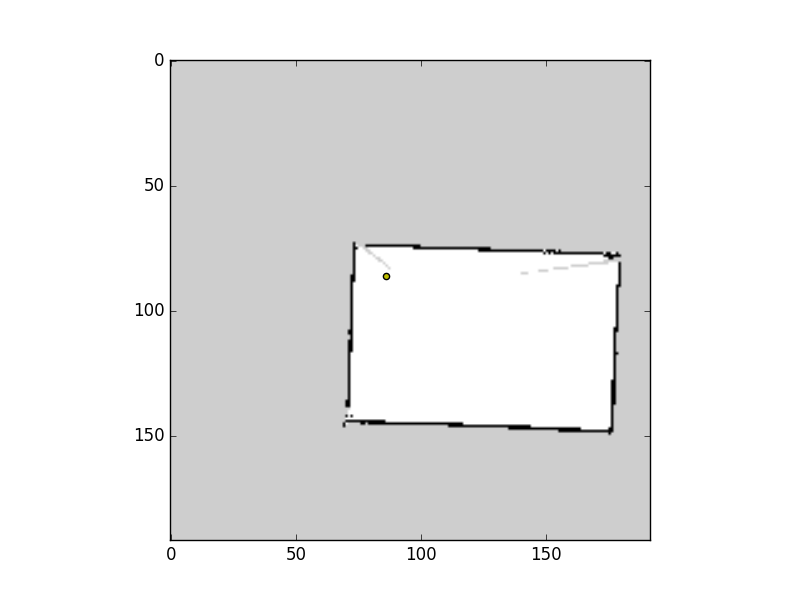
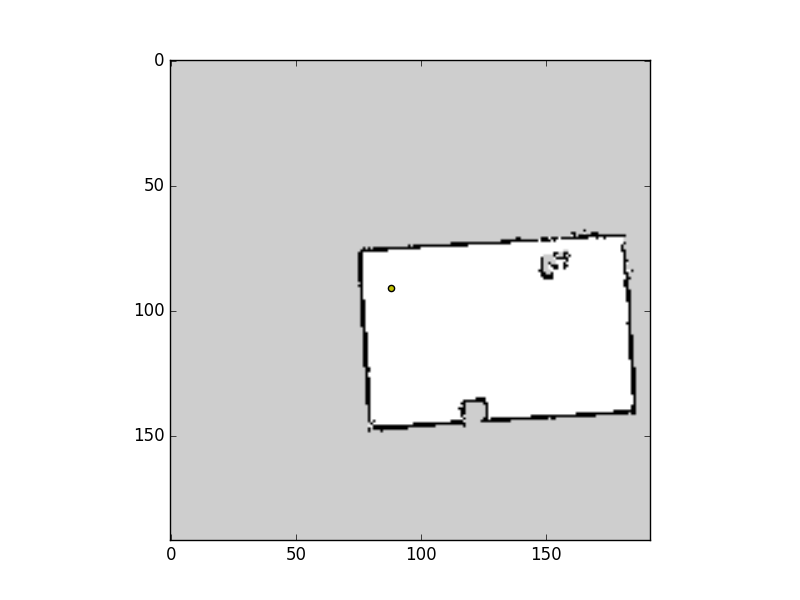
1121

Changed region(s): [[0.4062, 0.36, 0.8125, 0.72]]

diff --git a/home.html b/home.html
@@ -1,0 +1,90 @@
+<!DOCTYPE html>
+<html>
+<head> 
+<style type="text/css">
+#Header{
+    width:auto;
+    height:80px;
+    text-align:center;
+    line-height:80px;
+    font-size:15px;
+    color:#fffaf3;
+    font-weight:bold;
+    background-color:#f9c81e;
+}
+#Sidebar{
+    width:240px;
+    float:left;
+    height:auto;
+    text-align:center;
+    line-height:100px;
+    font-size:15px;
+    color:#ffffff;
+    font-weight:bold;
+    background-color:#cecece;
+}
+#body{
+    width:240px;
+    height:280px;
+    text-align:center;
+    line-height:280px;
+    font-size:15px;
+    color:#f9c81e;
+    font-weight:bold;
+    background-color:#fffaf3;
+    float:left;
+}
+#Footer{
+    width:auto;
+    height:80px;
+    text-align:center;
+    line-height:80px;
+    font-size:15px;
+    color:#fffaf3;
+    font-weight:bold;
+    background-color:#f9c81e;
+}
+</style>
+</head>
+
+<body >
+<div id="Header">Header 欄位</div>
+<div id="Sidebar">
+    <form method="get" action="start">
+    <button type="submit" style="background-color:#F8C471  ;width:60px;height:60px;font-size:20px;"  >啟動</button>
+    </form>
+    <form method="get" action="goalA_to">
+    <button type="submit" style="background-color:#ABEBC6;width:120px;height:60px;font-size:20px;">goalA_to</button>
+    </form>
+    <form method="get" action="goalA_leave">
+    <button type="submit" style="background-color:#ABEBC6;width:120px;height:60px;font-size:20px;">goalA_leave</button>
+    </form>
+    <form method="get" action="goalB_to">
+    <button type="submit" style="background-color:#AED6F1;width:120px;height:60px;font-size:20px;" >goalB_to</button>
+    </form>
+    <form method="get" action="goalB_leave">
+    <button type="submit" style="background-color:#AED6F1;width:120px;height:60px;font-size:20px;">goalB_leave</button>
+    </form>
+    <form method="get" action="goalC_to">
+    <button type="submit" style="background-color:#D2B4DE;width:120px;height:60px;font-size:20px;">goalC_to</button>
+    </form>
+    <form method="get" action="goalC_leave">
+    <button type="submit" style="background-color:#D2B4DE;width:120px;height:60px;font-size:20px;">goalC_leave</button>
+    </form>
+    <!-- <form method="get" action="kill">
+    <button type="submit" style="background-color:#F8C471  ;width:60px;height:60px;font-size:20px;">kill</button>
+    </form> -->
+</div>
+<div id="Body" >
+    <img src="http://192.168.4.10:8080/1.jpg" id="myImage" />
+    <script>
+    setInterval(function() {
+        var myImageElement = document.getElementById('myImage');
+        myImageElement.src = "http://192.168.4.10:8080/2.png"
+    }, 5000);
+    </script>
+</div>
+<div style='clear:both;'></div>
+<div id="Footer">Footer 欄位</div>
+</body>
+</html>

diff --git a/interactive.py b/interactive.py
@@ -15,6 +15,7 @@ class HelloWorld(object):
 
     def __init__(self):
         self.laucher = Launcher()
+        self.pub = rospy.Publisher('move_base_simple/goal', PoseStamped, queue_size=10) 
 
     @cherrypy.expose
     def index(self):
@@ -22,7 +23,7 @@ class HelloWorld(object):
         # <input type="button" value="goalA" onclick="location.href='192.168.3.3:8080/goalA_to'">
         # ERIC https://github.com/VirtuosoEric/robot_web_service/blob/pn60/home.html
         
-        f = open("t.html", "r")
+        f = open("home.html", "r")
         return f
 
     @cherrypy.expose
@@ -42,19 +43,18 @@ class HelloWorld(object):
 
     @cherrypy.expose
     def goalA_to(self):
-        pub = rospy.Publisher('move_base_simple/goal', PoseStamped, queue_size=10)          
         goal = PoseStamped()
         goal.header.frame_id = "map"
         goal.header.stamp = rospy.Time.now()
-        goal.pose.position.x = 3
-        goal.pose.position.y = 0
+        goal.pose.position.x = 0.240
+        goal.pose.position.y = -0.344
         goal.pose.position.z = 0
         goal.pose.orientation.w = 1.0
-        pub.publish(goal)
+        self.pub.publish(goal)
         return 'goal to!'
     @cherrypy.expose
     def goalA_leave(self):
-        pub = rospy.Publisher('move_base_simple/goal', PoseStamped, queue_size=10)          
+        # pub = rospy.Publisher('move_base_simple/goal', PoseStamped, queue_size=10)          
         goal = PoseStamped()
         goal.header.frame_id = "map"
         goal.header.stamp = rospy.Time.now()
@@ -62,15 +62,32 @@ class HelloWorld(object):
         goal.pose.position.y = 0
         goal.pose.position.z = 0
         goal.pose.orientation.w = 1.0
-        pub.publish(goal)
+        self.pub.publish(goal)
         return 'goal leave!'
     @cherrypy.expose
     def goalB_to(self):
-        # f = open("latop.html", "r")
-        return 'Hello!'
+        # pub = rospy.Publisher('move_base_simple/goal', PoseStamped, queue_size=10)          
+        goal = PoseStamped()
+        goal.header.frame_id = "map"
+        goal.header.stamp = rospy.Time.now()
+        goal.pose.position.x = 0.601
+        goal.pose.position.y = -0.138
+        goal.pose.position.z = 0
+        goal.pose.orientation.w = 1.0
+        self.pub.publish(goal)
+        return 'goal to!'
+        # return 'Hello!'
     @cherrypy.expose
     def goalB_leave(self):
-        # f = open("latop.html", "r")
+        # pub = rospy.Publisher('move_base_simple/goal', PoseStamped, queue_size=10)          
+        goal = PoseStamped()
+        goal.header.frame_id = "map"
+        goal.header.stamp = rospy.Time.now()
+        goal.pose.position.x = 0
+        goal.pose.position.y = 0
+        goal.pose.position.z = 0
+        goal.pose.orientation.w = 1.0
+        self.pub.publish(goal)
         return 'Hello!'
     @cherrypy.expose
     def goalC_to(self):

diff --git a/map.py b/map.py
@@ -13,13 +13,13 @@ class mapdrawing:
         self.listener = tf.TransformListener()
         # rospy.Subscriber('/', PoseWithCovarianceStamped, self.position)
     def position(self):
-        print "a"
+        # print "a"
         r = rospy.Rate(10)
         while not rospy.is_shutdown():
             try:
                 (position, quaternion) = self.listener.lookupTransform("/map", "/base_link", rospy.Time(0))
-                print position[0], position[1]
-                return position[0]*100,position[1]*100
+                # print position[0], position[1]
+                return position[0],position[1]
             except:
                 print 'tf not ready'
             r.sleep()
@@ -36,14 +36,15 @@ class mapdrawing:
         # self.pos_y = data.pose.pose.position.y
 
     def draw(self,x,y):
-        im = Image.open("base.pgm")    
+        im = Image.open("1121.pgm")    
         width , height = im.size
 
-        plt.imshow(im,cmap ='gray',origin='lower')
-        plt.scatter(x+86,(-y+86), c = 'y',marker = 'o')
+        # plt.imshow(im,cmap ='gray',origin='lower')
         plt.imshow(im,cmap ='gray')
-       
-        plt.savefig('result.png')
+        print x,y
+        plt.scatter(100*x+86,(-100*y+86), c = 'y',marker = 'o')
+        plt.imshow(im,cmap ='gray')
+        plt.savefig("./static/4.jpg")
         print "haha"
         # plt.show()
         # im = Image.open("1107.pgm")    
@@ -57,9 +58,11 @@ class mapdrawing:
             
 if __name__ == '__main__':
     rospy.init_node('map', anonymous=True)
-    do=mapdrawing()
-    x,y=do.position()
-
-    print x,y
-    do.draw(4,4)
- 
+    while not rospy.is_shutdown():
+        try:
+            do=mapdrawing()
+            x,y=do.position()
+            do.draw(146,100)
+        except:
+            print 'draw fail'
+        
